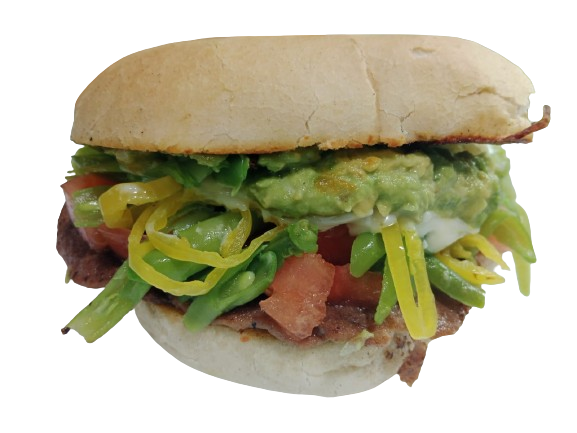
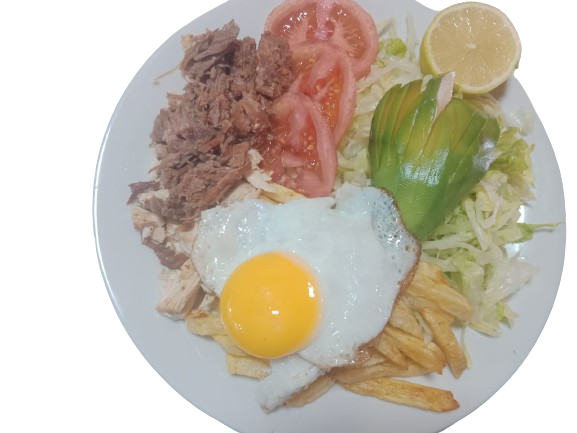
feat(admin): bucket upload and rustic card refinements

diff --git a/app/admin/page.tsx b/app/admin/page.tsx
@@ -1,6 +1,6 @@
 'use client';
 
-import React, { useState } from 'react';
+import React, { useState, useRef } from 'react';
 import Link from 'next/link';
 import Image from 'next/image';
 import { useMenuData } from '@/lib/store';
@@ -17,6 +17,8 @@ import {
   RotateCcw,
   ImageIcon,
   X,
+  Upload,
+  Loader2,
 } from 'lucide-react';
 
 const GALERIA_IMAGENES = [
@@ -43,6 +45,10 @@ export default function AdminPage() {
   const [categoriaFiltro, setCategoriaFiltro] = useState<string>('todas');
   const [showAddModal, setShowAddModal] = useState<boolean>(false);
   const [editingProduct, setEditingProduct] = useState<Producto | null>(null);
+  const [isUploading, setIsUploading] = useState<boolean>(false);
+
+  const fileInputEditRef = useRef<HTMLInputElement>(null);
+  const fileInputNewRef = useRef<HTMLInputElement>(null);
 
   // Formulario nuevo producto
   const [nuevoNombre, setNuevoNombre] = useState('');
@@ -60,6 +66,34 @@ export default function AdminPage() {
       currency: 'CLP',
       maximumFractionDigits: 0,
     }).format(precio);
+  };
+
+  const handleFileUpload = async (file: File, isEdit: boolean) => {
+    try {
+      setIsUploading(true);
+      const formData = new FormData();
+      formData.append('file', file);
+
+      const res = await fetch('/api/upload', {
+        method: 'POST',
+        body: formData,
+      });
+
+      const data = await res.json();
+      if (data.url) {
+        if (isEdit && editingProduct) {
+          setEditingProduct({ ...editingProduct, imagen_url: data.url });
+        } else {
+          setNuevaImagen(data.url);
+        }
+      } else {
+        alert(data.error || 'Error al subir imagen');
+      }
+    } catch (e: any) {
+      alert('Error al subir: ' + e.message);
+    } finally {
+      setIsUploading(false);
+    }
   };
 
   const handleStartEdit = (p: Producto) => {
@@ -392,14 +426,25 @@ export default function AdminPage() {
             </div>
 
             <form onSubmit={handleSaveEdit} className="mt-4 space-y-4">
-              {/* Selector Visual de Imagen */}
-              <div>
-                <label className="text-xs font-bold text-zinc-300 block mb-2">
-                  1. Imagen del Producto (Selecciona una de la galería):
-                </label>
+              {/* Sección Imagen: Subir nueva o seleccionar de galería */}
+              <div className="p-4 bg-zinc-900/90 rounded-2xl border border-white/10">
+                <div className="flex items-center justify-between mb-3">
+                  <label className="text-xs font-bold text-amber-300 block">
+                    Foto del Producto
+                  </label>
+                  {editingProduct.imagen_url && (
+                    <button
+                      type="button"
+                      onClick={() => setEditingProduct({ ...editingProduct, imagen_url: '' })}
+                      className="text-[11px] font-bold text-red-400 hover:text-red-300 transition"
+                    >
+                      Eliminar / Quitar Foto
+                    </button>
+                  )}
+                </div>
 
                 {/* Previsualización actual */}
-                <div className="flex items-center gap-3 p-3 bg-zinc-900 rounded-2xl border border-white/10 mb-3">
+                <div className="flex items-center gap-3 mb-3">
                   <div className="relative w-16 h-16 rounded-xl bg-black overflow-hidden border border-amber-500/40 shrink-0">
                     {editingProduct.imagen_url ? (
                       <Image
@@ -409,19 +454,57 @@ export default function AdminPage() {
                         className="object-cover"
                       />
                     ) : (
-                      <ImageIcon className="w-8 h-8 text-zinc-600 m-auto" />
+                      <div className="w-full h-full flex items-center justify-center text-zinc-600">
+                        <ImageIcon className="w-8 h-8" />
+                      </div>
                     )}
                   </div>
                   <div className="flex-1 min-w-0">
-                    <span className="text-[11px] text-zinc-400 block font-medium">Ruta actual:</span>
+                    <span className="text-[11px] text-zinc-400 block font-medium">Estado foto:</span>
                     <span className="text-xs font-mono text-amber-400 truncate block">
-                      {editingProduct.imagen_url || 'Sin imagen'}
+                      {editingProduct.imagen_url || 'Sin foto asignada'}
                     </span>
                   </div>
                 </div>
 
-                {/* Galería de botones con miniaturas */}
-                <div className="grid grid-cols-2 gap-2 max-h-44 overflow-y-auto pr-1">
+                {/* BOTÓN SUBIR FOTO DESDE CELULAR O PC */}
+                <div className="mb-3">
+                  <input
+                    type="file"
+                    ref={fileInputEditRef}
+                    accept="image/*"
+                    className="hidden"
+                    onChange={(e) => {
+                      if (e.target.files && e.target.files[0]) {
+                        handleFileUpload(e.target.files[0], true);
+                      }
+                    }}
+                  />
+                  <button
+                    type="button"
+                    disabled={isUploading}
+                    onClick={() => fileInputEditRef.current?.click()}
+                    className="w-full py-2.5 px-3 rounded-xl bg-gradient-to-r from-amber-600 to-orange-600 hover:from-amber-500 hover:to-orange-500 text-black font-extrabold text-xs flex items-center justify-center gap-2 shadow-lg transition active:scale-98 disabled:opacity-50"
+                  >
+                    {isUploading ? (
+                      <>
+                        <Loader2 className="w-4 h-4 animate-spin text-black" />
+                        <span>Subiendo foto a Supabase...</span>
+                      </>
+                    ) : (
+                      <>
+                        <Upload className="w-4 h-4 text-black" />
+                        <span>Subir Foto Nueva (desde celular o PC)</span>
+                      </>
+                    )}
+                  </button>
+                </div>
+
+                {/* O Seleccionar de la Galería existente */}
+                <span className="text-[11px] text-zinc-400 font-bold block mb-2">
+                  O elige una foto de la galería:
+                </span>
+                <div className="grid grid-cols-2 gap-2 max-h-40 overflow-y-auto pr-1">
                   {GALERIA_IMAGENES.map((img) => (
                     <button
                       type="button"
@@ -432,7 +515,7 @@ export default function AdminPage() {
                       className={`p-2 rounded-xl text-left border flex items-center gap-2 transition ${
                         editingProduct.imagen_url === img.url
                           ? 'bg-amber-500/20 border-amber-500 text-white font-bold'
-                          : 'bg-zinc-900/80 border-white/5 text-zinc-400 hover:text-white hover:bg-zinc-800'
+                          : 'bg-black/60 border-white/5 text-zinc-400 hover:text-white hover:bg-zinc-800'
                       }`}
                     >
                       <div className="relative w-8 h-8 rounded-lg overflow-hidden shrink-0 bg-black">
@@ -443,16 +526,16 @@ export default function AdminPage() {
                   ))}
                 </div>
 
-                {/* Campo URL libre */}
-                <div className="mt-2">
+                {/* O escribir URL personalizada */}
+                <div className="mt-2.5">
                   <input
                     type="text"
                     value={editingProduct.imagen_url || ''}
                     onChange={(e) =>
                       setEditingProduct({ ...editingProduct, imagen_url: e.target.value })
                     }
-                    placeholder="O escribe una URL personalizada (/images/foto.jpg o https://...)"
-                    className="w-full px-3 py-1.5 bg-zinc-900 border border-white/10 rounded-xl text-white text-xs font-mono focus:border-amber-500 focus:outline-none"
+                    placeholder="O escribe una URL (https://...)"
+                    className="w-full px-3 py-1.5 bg-black border border-white/10 rounded-xl text-white text-xs font-mono focus:border-amber-500 focus:outline-none"
                   />
                 </div>
               </div>
@@ -648,12 +731,38 @@ export default function AdminPage() {
                 />
               </div>
 
-              <div>
-                <label className="text-xs font-bold text-zinc-300 block mb-1">Imagen</label>
+              {/* Imagen: Subir o Elegir */}
+              <div className="p-3 bg-zinc-900 rounded-xl border border-white/10">
+                <label className="text-xs font-bold text-zinc-300 block mb-1.5">Foto</label>
+                <input
+                  type="file"
+                  ref={fileInputNewRef}
+                  accept="image/*"
+                  className="hidden"
+                  onChange={(e) => {
+                    if (e.target.files && e.target.files[0]) {
+                      handleFileUpload(e.target.files[0], false);
+                    }
+                  }}
+                />
+                <button
+                  type="button"
+                  disabled={isUploading}
+                  onClick={() => fileInputNewRef.current?.click()}
+                  className="w-full py-2 px-3 rounded-xl bg-zinc-800 hover:bg-zinc-700 text-amber-300 font-bold text-xs flex items-center justify-center gap-1.5 border border-amber-500/30 transition mb-2"
+                >
+                  {isUploading ? (
+                    <Loader2 className="w-3.5 h-3.5 animate-spin" />
+                  ) : (
+                    <Upload className="w-3.5 h-3.5" />
+                  )}
+                  <span>{isUploading ? 'Subiendo...' : 'Subir foto del producto'}</span>
+                </button>
+
                 <select
                   value={nuevaImagen}
                   onChange={(e) => setNuevaImagen(e.target.value)}
-                  className="w-full px-3 py-2 bg-zinc-900 border border-white/10 rounded-xl text-white text-xs focus:border-amber-500 focus:outline-none"
+                  className="w-full px-3 py-1.5 bg-black border border-white/10 rounded-xl text-white text-xs focus:border-amber-500 focus:outline-none"
                 >
                   {GALERIA_IMAGENES.map((img) => (
                     <option key={img.url} value={img.url}>

diff --git a/app/api/upload/route.ts b/app/api/upload/route.ts
@@ -1,0 +1,64 @@
+import { NextRequest, NextResponse } from 'next/server';
+import { supabase, isSupabaseConfigured } from '@/lib/supabase';
+import fs from 'fs';
+import path from 'path';
+
+export async function POST(req: NextRequest) {
+  try {
+    const formData = await req.formData();
+    const file = formData.get('file') as File | null;
+
+    if (!file) {
+      return NextResponse.json({ error: 'No se envió ningún archivo' }, { status: 400 });
+    }
+
+    const bytes = await file.arrayBuffer();
+    const buffer = Buffer.from(bytes);
+
+    // Nombre único y limpio
+    const ext = path.extname(file.name) || '.jpg';
+    const filename = `billy-${Date.now()}-${Math.random().toString(36).substring(2, 8)}${ext}`;
+
+    // 1. Si Supabase está configurado, subir al bucket 'billy-images'
+    if (isSupabaseConfigured && supabase) {
+      const { data, error } = await supabase.storage
+        .from('billy-images')
+        .upload(filename, buffer, {
+          contentType: file.type || 'image/jpeg',
+          upsert: true,
+        });
+
+      if (!error && data) {
+        const { data: publicUrlData } = supabase.storage
+          .from('billy-images')
+          .getPublicUrl(filename);
+
+        return NextResponse.json({
+          url: publicUrlData.publicUrl,
+          filename: filename,
+          storage: 'supabase',
+        });
+      } else if (error) {
+        console.warn('Supabase storage upload error, fallback a local:', error.message);
+      }
+    }
+
+    // 2. Fallback local: guardar en /public/uploads/
+    const uploadDir = path.join(process.cwd(), 'public', 'uploads');
+    if (!fs.existsSync(uploadDir)) {
+      fs.mkdirSync(uploadDir, { recursive: true });
+    }
+
+    const filepath = path.join(uploadDir, filename);
+    fs.writeFileSync(filepath, buffer);
+
+    return NextResponse.json({
+      url: `/uploads/${filename}`,
+      filename: filename,
+      storage: 'local',
+    });
+  } catch (err: any) {
+    console.error('Error in upload route:', err);
+    return NextResponse.json({ error: err.message || 'Error al subir imagen' }, { status: 500 });
+  }
+}
